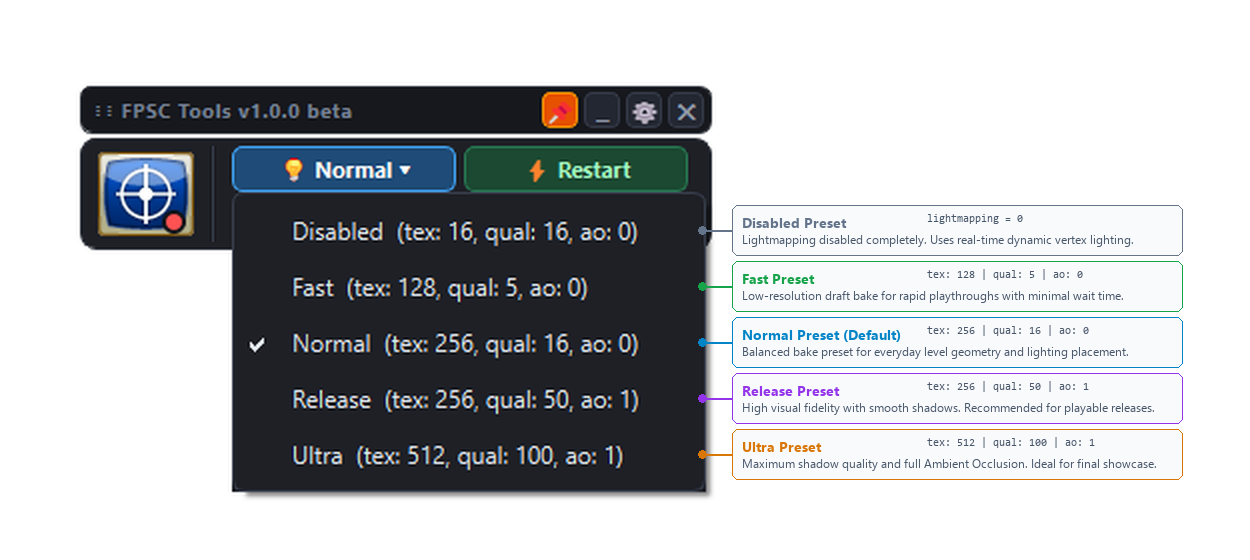
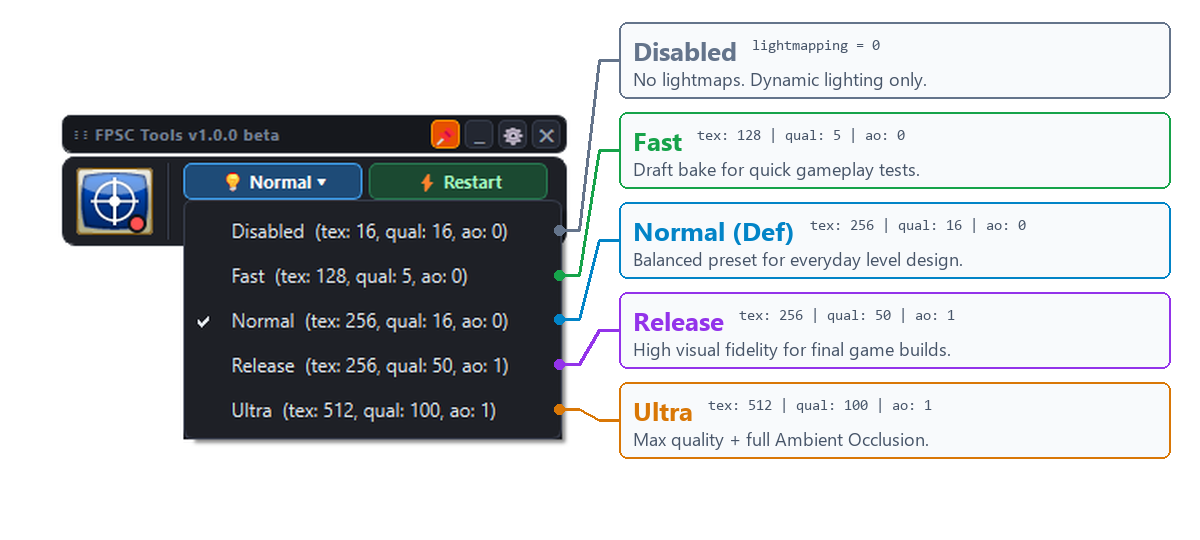
Fixed image font and box sizes

Changed region(s): [[0.0308, 0.0296, 0.9867, 0.8889]]

diff --git a/docs/infographics/src/generate_all.py b/docs/infographics/src/generate_all.py
@@ -11,229 +11,182 @@ ASSETS_DIR = os.path.join(BASE_DIR, 'assets')
 OUTPUT_DIR = os.path.abspath(os.path.join(BASE_DIR, '..'))
 
 # Colors (Pure White Theme)
-BG_WHITE = (255, 255, 255)
-CARD_BG = (248, 250, 252)        # slate-50
-TEXT_MAIN = (15, 23, 42)         # slate-900
-TEXT_MUTED = (71, 85, 105)       # slate-600
+BG = (255, 255, 255)
+CARD_BG = (248, 250, 252)
+TEXT_MAIN = (15, 23, 42)
+TEXT_MUTED = (71, 85, 105)
 
-COL_BLUE = (2, 132, 199)         # sky-600
-COL_GREEN = (22, 163, 74)        # green-600
-COL_ORANGE = (234, 88, 12)       # orange-600
-COL_PURPLE = (147, 51, 234)      # purple-600
-COL_RED = (225, 29, 72)          # rose-600
-COL_AMBER = (217, 119, 6)        # amber-600
-COL_CYAN = (8, 145, 178)         # cyan-600
-COL_GRAY = (100, 116, 139)       # slate-500
+COL_BLUE = (2, 132, 199)
+COL_GREEN = (22, 163, 74)
+COL_ORANGE = (234, 88, 12)
+COL_PURPLE = (147, 51, 234)
+COL_RED = (225, 29, 72)
+COL_AMBER = (217, 119, 6)
+COL_CYAN = (8, 145, 178)
+COL_GRAY = (100, 116, 139)
 
-font_title = ImageFont.truetype(r'C:\Windows\Fonts\segoeuib.ttf', 14)
-font_body = ImageFont.truetype(r'C:\Windows\Fonts\segoeui.ttf', 12)
-font_num = ImageFont.truetype(r'C:\Windows\Fonts\segoeuib.ttf', 11)
-font_params = ImageFont.truetype(r'C:\Windows\Fonts\consola.ttf', 11)
+FT = ImageFont.truetype(r'C:\Windows\Fonts\segoeuib.ttf', 22)
+FB = ImageFont.truetype(r'C:\Windows\Fonts\segoeui.ttf', 16)
+FN = ImageFont.truetype(r'C:\Windows\Fonts\segoeuib.ttf', 15)
 
-def draw_straight_pointer(draw, pt_tip, pt_card, color, width=2):
-    draw.ellipse((pt_tip[0]-4, pt_tip[1]-4, pt_tip[0]+4, pt_tip[1]+4), fill=color)
-    draw.line([pt_tip, pt_card], fill=color, width=width)
+FT_MODE = ImageFont.truetype(r'C:\Windows\Fonts\segoeuib.ttf', 26)
+FB_MODE = ImageFont.truetype(r'C:\Windows\Fonts\segoeui.ttf', 18)
+FP_MODE = ImageFont.truetype(r'C:\Windows\Fonts\consola.ttf', 15)
 
-def draw_card(draw, box, num_str, title, lines, color):
-    draw.rounded_rectangle(box, radius=6, fill=CARD_BG, outline=color, width=1)
-    bx, by = box[0] + 8, box[1] + 6
-    if num_str:
-        draw.rounded_rectangle((bx, by, bx + 16, by + 16), radius=3, fill=color)
-        draw.text((bx + 4, by + 1), num_str, font=font_num, fill=(255, 255, 255))
-        draw.text((bx + 22, by + 1), title, font=font_title, fill=TEXT_MAIN)
+def ptr(d, t, e, c, w=3):
+    d.ellipse([t[0]-5, t[1]-5, t[0]+5, t[1]+5], fill=c)
+    d.line([t, e], fill=c, width=w)
+
+def card(d, b, n, title, lines, c):
+    d.rounded_rectangle(b, 8, fill=CARD_BG, outline=c, width=2)
+    x, y = b[0] + 12, b[1] + 10
+    if n:
+        d.rounded_rectangle([x, y, x + 24, y + 24], 4, fill=c)
+        d.text((x + 7, y + 1), n, font=FN, fill=(255, 255, 255))
+        d.text((x + 32, y - 2), title, font=FT, fill=TEXT_MAIN)
     else:
-        draw.text((bx, by), title, font=font_title, fill=color)
-    ly = by + 20
-    for line in lines:
-        draw.text((bx, ly), line, font=font_body, fill=TEXT_MUTED)
-        ly += 15
+        d.text((x, y), title, font=FT, fill=c)
+    ly = y + 28
+    for l in lines:
+        d.text((x, ly), l, font=FB, fill=TEXT_MUTED)
+        ly += 22
 
-def draw_horizontal_callout(draw, pt_tip, box, border_col, title, params, desc):
-    draw.ellipse((pt_tip[0]-4, pt_tip[1]-4, pt_tip[0]+4, pt_tip[1]+4), fill=border_col)
-    draw.line([pt_tip, (box[0], pt_tip[1])], fill=border_col, width=2)
-    draw.rounded_rectangle(box, radius=6, fill=CARD_BG, outline=border_col, width=1)
-    bx, by = box[0] + 10, box[1] + 7
-    draw.text((bx, by), title, font=font_title, fill=border_col)
-    t_w = font_title.getlength(title)
+def hcallout_fanned(d, tip, cy, rx, rw, ch, col, title, params, desc):
+    menu_pt = tip
+    card_pt = (rx, cy)
+    d.line([menu_pt, (menu_pt[0]+20, menu_pt[1]), (rx-20, cy), card_pt], fill=col, width=3)
+    d.ellipse([menu_pt[0]-5, menu_pt[1]-5, menu_pt[0]+5, menu_pt[1]+5], fill=col)
+    
+    box = (rx, cy - ch//2, rx + rw, cy + ch//2)
+    d.rounded_rectangle(box, 8, fill=CARD_BG, outline=col, width=2)
+    bx, by = box[0] + 14, box[1] + 10
+    d.text((bx, by), title, font=FT_MODE, fill=col)
+    tw = FT_MODE.getlength(title)
     if params:
-        draw.text((bx + max(t_w + 14, 185), by + 1), params, font=font_params, fill=TEXT_MUTED)
-    draw.text((bx, by + 19), desc, font=font_body, fill=TEXT_MUTED)
-
+        d.text((bx + tw + 15, by + 6), params, font=FP_MODE, fill=TEXT_MUTED)
+    d.text((bx, by + 34), desc, font=FB_MODE, fill=TEXT_MUTED)
 
 def generate_toolbar_overview():
-    scale = 2.0
-    tb_raw = Image.open(os.path.join(ASSETS_DIR, 'toolbar_full.png'))
-    tb_w, tb_h = int(tb_raw.width * scale), int(tb_raw.height * scale)
-    tb = tb_raw.resize((tb_w, tb_h), Image.LANCZOS)
+    sc = 1.4
+    tb = Image.open(os.path.join(ASSETS_DIR, 'toolbar_full.png'))
+    tw, th = int(tb.width * sc), int(tb.height * sc)
+    tb = tb.resize((tw, th), Image.LANCZOS)
 
-    canvas_w, canvas_h = 1260, 560
-    img = Image.new('RGB', (canvas_w, canvas_h), BG_WHITE)
-    draw = ImageDraw.Draw(img)
+    W, H = 1000, 390
+    img = Image.new('RGB', (W, H), BG)
+    d = ImageDraw.Draw(img)
+    tx = (W - tw) // 2
+    ty = 135
+    img.paste(tb, (tx, ty))
 
-    tb_x = (canvas_w - tb_w) // 2   # 314
-    tb_y = 180
-    img.paste(tb, (tb_x, tb_y))
+    pf = (tx + int(263 * sc), ty + int(11 * sc))
+    pp = (tx + int(240 * sc), ty + int(11 * sc))
+    pl = (tx + int(48 * sc), ty + int(66 * sc))
+    pn = (tx + int(115 * sc), ty + int(38 * sc))
+    pc = (tx + int(115 * sc), ty + int(67 * sc))
+    pr = (tx + int(235 * sc), ty + int(38 * sc))
+    ps = (tx + int(235 * sc), ty + int(67 * sc))
 
-    pt_fold = (tb_x + int(263 * scale), tb_y + int(11 * scale))
-    pt_pin = (tb_x + int(240 * scale), tb_y + int(11 * scale))
-    pt_led = (tb_x + int(48 * scale), tb_y + int(66 * scale))
+    # Top Left
+    b1 = (20, 20, 380, 95)
+    card(d, b1, '1', 'Fold to Mini-Widget', ['Collapse and restore in one click.'], COL_CYAN)
+    mi = Image.open(os.path.join(ASSETS_DIR, 'mini_icon.png')).resize((40, 40), Image.LANCZOS)
+    img.paste(mi, (330, 28), mi.convert('RGBA'))
+    ptr(d, pf, (380, 57), COL_CYAN)
 
-    pt_normal = (tb_x + int(115 * scale), tb_y + int(38 * scale))
-    pt_clean = (tb_x + int(115 * scale), tb_y + int(67 * scale))
-    pt_restart = (tb_x + int(235 * scale), tb_y + int(38 * scale))
-    pt_stash = (tb_x + int(235 * scale), tb_y + int(67 * scale))
+    # Top Right
+    b2 = (650, 20, 980, 95)
+    card(d, b2, '2', 'Window Controls', ['Pin | Settings | Close'], COL_AMBER)
+    ptr(d, pp, (650, 57), COL_AMBER)
 
-    # 1. Fold to Mini-Widget
-    b1 = (40, 25, 520, 115)
-    draw.rounded_rectangle(b1, radius=6, fill=CARD_BG, outline=COL_CYAN, width=1)
-    draw.rounded_rectangle((b1[0] + 10, b1[1] + 8, b1[0] + 26, b1[1] + 24), radius=3, fill=COL_CYAN)
-    draw.text((b1[0] + 14, b1[1] + 9), '1', font=font_num, fill=(255, 255, 255))
-    draw.text((b1[0] + 32, b1[1] + 8), 'Fold to Mini-Widget (Collapse)', font=font_title, fill=TEXT_MAIN)
-    draw.text((b1[0] + 10, b1[1] + 30), 'Clicking Fold collapses toolbar into a floating mini-icon', font=font_body, fill=TEXT_MUTED)
-    draw.text((b1[0] + 10, b1[1] + 46), 'centered at cursor. Click icon to restore with zero drift.', font=font_body, fill=TEXT_MUTED)
-
-    mini_img = Image.open(os.path.join(ASSETS_DIR, 'mini_icon.png')).resize((55, 55), Image.LANCZOS)
-    img.paste(mini_img, (b1[0] + 445, b1[1] + 18), mini_img.convert('RGBA'))
-    draw_straight_pointer(draw, pt_fold, (520, 95), COL_CYAN)
-
-    # 2. Window Controls
-    b2 = (740, 25, 1220, 115)
-    draw_card(draw, b2, '2', 'Window Controls', 
-              ['Pin: Toggle Always on Top above all editor windows', 
-               'Gear: Open Settings dialog • X: Exit application'], COL_AMBER)
-    draw_straight_pointer(draw, pt_pin, (794, 115), COL_AMBER)
-
-    # 3. Status LED
-    b3 = (30, 230, 270, 315)
-    draw_card(draw, b3, '3', 'Status LED & Launch',
-              ['Red: Engine Stopped.', 'Green: Engine Active.', 'Click icon to launch / restart.'], COL_GREEN)
-    draw_straight_pointer(draw, pt_led, (270, pt_led[1]), COL_GREEN)
+    # Far Left
+    b3 = (20, 150, 220, 245)
+    card(d, b3, '3', 'Status LED', ['Red = Stopped', 'Green = Running'], COL_GREEN)
+    ptr(d, pl, (220, pl[1]), COL_GREEN)
 
     # Bottom row
-    bot_y1, bot_y2 = 440, 525
-    b4 = (30, bot_y1, 315, bot_y2)
-    draw_card(draw, b4, '4', 'Lightmapping Profiles',
-              ['Dropdown with 5 bake presets.', 'Updates setup.ini & reloads engine.'], COL_BLUE)
-    draw_straight_pointer(draw, pt_normal, (200, bot_y1), COL_BLUE)
+    by1, by2 = 295, 370
+    cw = 220; gap = 20
+    b4 = (20, by1, 20+cw, by2)
+    card(d, b4, '4', 'Lightmap', ['5 bake presets'], COL_BLUE)
+    ptr(d, pn, (20+cw//2, by1), COL_BLUE)
 
-    b5 = (335, bot_y1, 620, bot_y2)
-    draw_card(draw, b5, '5', 'Fast Cache Cleaner',
-              ['Purges .bin/.dbo models, level build', 'cache data, and engine temp files.'], COL_ORANGE)
-    draw_straight_pointer(draw, pt_clean, (475, bot_y1), COL_ORANGE)
+    b5 = (20+cw+gap, by1, 20+2*cw+gap, by2)
+    card(d, b5, '5', 'Cleaner', ['Purge build cache'], COL_ORANGE)
+    ptr(d, pc, (20+cw+gap+cw//2, by1), COL_ORANGE)
 
-    b6 = (640, bot_y1, 925, bot_y2)
-    draw_card(draw, b6, '6', 'Level Stash System',
-              ['Instant snapshot backup & rollback of', 'testlevel builds + active .fpm map.'], COL_PURPLE)
-    draw_straight_pointer(draw, pt_stash, (784, bot_y1), COL_PURPLE)
+    b6 = (20+2*(cw+gap), by1, 20+3*cw+2*gap, by2)
+    card(d, b6, '6', 'Level Stash', ['Snapshot + .fpm'], COL_PURPLE)
+    ptr(d, ps, (20+2*(cw+gap)+cw//2, by1), COL_PURPLE)
 
-    b7 = (945, bot_y1, 1230, bot_y2)
-    draw_card(draw, b7, '7', 'Instant Restart',
-              ['Force-kills hanging FPSC processes', 'and cleanly relaunches the editor.'], COL_RED)
-    draw_straight_pointer(draw, pt_restart, (1085, bot_y1), COL_RED)
+    b7 = (20+3*(cw+gap), by1, 20+4*cw+3*gap, by2)
+    card(d, b7, '7', 'Restart', ['Kill and relaunch'], COL_RED)
+    ptr(d, pr, (20+3*(cw+gap)+cw//2, by1), COL_RED)
 
     out_path = os.path.join(OUTPUT_DIR, 'toolbar_overview.png')
     img.save(out_path, quality=95)
     print('[+] Generated:', out_path)
 
+def make_mode_img(filename, menu_img_name, items):
+    sc_m = 1.6
+    m = Image.open(os.path.join(ASSETS_DIR, menu_img_name))
+    mw, mh = int(m.width * sc_m), int(m.height * sc_m)
+    m = m.resize((mw, mh), Image.LANCZOS)
+    
+    W, H = 1200, max(500, len(items)*100 + 40)
+    img_m = Image.new('RGB', (W, H), BG)
+    dm = ImageDraw.Draw(img_m)
+    
+    mx = 30; my = (H - mh) // 2
+    img_m.paste(m, (mx, my))
+    tip_x = mx + int(m.width * 0.9 * sc_m) 
+    if 'clean' in menu_img_name: tip_x = mx + int(352 * sc_m)
+    if 'profiles' in menu_img_name: tip_x = mx + int(331 * sc_m)
+    if 'stash' in menu_img_name: tip_x = mx + int(410 * sc_m)
+    
+    rx = tip_x + 60
+    rw = W - rx - 30
+    ch = 76
+    
+    start_y = (H - (len(items)*90 - 10)) // 2 + 10
+    
+    for i, (orig_y, col, t, par, desc) in enumerate(items):
+        menu_y = my + int(orig_y * sc_m)
+        card_cy = start_y + i * 90
+        hcallout_fanned(dm, (tip_x, menu_y), card_cy, rx, rw, ch, col, t, par, desc)
+        
+    out_path = os.path.join(OUTPUT_DIR, filename)
+    img_m.save(out_path, quality=95)
+    print('[+] Generated:', out_path)
+
 
 def generate_mode_lightmapping():
-    scale = 2.0
-    card_h = 50
-    m_raw2 = Image.open(os.path.join(ASSETS_DIR, 'menu_profiles.png'))
-    m_w2, m_h2 = int(m_raw2.width * scale), int(m_raw2.height * scale)
-    m2 = m_raw2.resize((m_w2, m_h2), Image.LANCZOS)
-
-    cw2, ch2 = 1250, 560
-    img2 = Image.new('RGB', (cw2, ch2), BG_WHITE)
-    draw2 = ImageDraw.Draw(img2)
-    mx2, my2 = 40, (ch2 - m_h2) // 2
-    img2.paste(m2, (mx2, my2))
-
-    tip_x2 = mx2 + int(331 * scale)
-    rx2 = tip_x2 + 30
-    rw2 = 450
-
     items2 = [
-        (my2 + int(92.0 * scale), COL_GRAY, 'Disabled Preset', 'lightmapping = 0', 'Lightmapping disabled completely. Uses real-time dynamic vertex lighting.'),
-        (my2 + int(120.0 * scale), COL_GREEN, 'Fast Preset', 'tex: 128 | qual: 5 | ao: 0', 'Low-resolution draft bake for rapid playthroughs with minimal wait time.'),
-        (my2 + int(148.0 * scale), COL_BLUE, 'Normal Preset (Default)', 'tex: 256 | qual: 16 | ao: 0', 'Balanced bake preset for everyday level geometry and lighting placement.'),
-        (my2 + int(176.0 * scale), COL_PURPLE, 'Release Preset', 'tex: 256 | qual: 50 | ao: 1', 'High visual fidelity with smooth shadows. Recommended for playable releases.'),
-        (my2 + int(204.0 * scale), COL_AMBER, 'Ultra Preset', 'tex: 512 | qual: 100 | ao: 1', 'Maximum shadow quality and full Ambient Occlusion. Ideal for final showcase.')
+        (92,  COL_GRAY,  'Disabled', 'lightmapping = 0', 'No lightmaps. Dynamic lighting only.'),
+        (120, COL_GREEN, 'Fast', 'tex: 128 | qual: 5 | ao: 0', 'Draft bake for quick gameplay tests.'),
+        (148, COL_BLUE,  'Normal (Def)', 'tex: 256 | qual: 16 | ao: 0', 'Balanced preset for everyday level design.'),
+        (176, COL_PURPLE, 'Release', 'tex: 256 | qual: 50 | ao: 1', 'High visual fidelity for final game builds.'),
+        (204, COL_AMBER, 'Ultra', 'tex: 512 | qual: 100 | ao: 1', 'Max quality + full Ambient Occlusion.'),
     ]
-
-    for tip_y, col, title, params, desc in items2:
-        box = (rx2, tip_y - card_h//2, rx2 + rw2, tip_y + card_h//2)
-        draw_horizontal_callout(draw2, (tip_x2, tip_y), box, col, title, params, desc)
-
-    out_path = os.path.join(OUTPUT_DIR, 'mode_lightmapping.png')
-    img2.save(out_path, quality=95)
-    print('[+] Generated:', out_path)
-
+    make_mode_img('mode_lightmapping.png', 'menu_profiles.png', items2)
 
 def generate_mode_cleaner():
-    scale = 2.0
-    card_h = 52
-    m_raw3 = Image.open(os.path.join(ASSETS_DIR, 'menu_clean.png'))
-    m_w3, m_h3 = int(m_raw3.width * scale), int(m_raw3.height * scale)
-    m3 = m_raw3.resize((m_w3, m_h3), Image.LANCZOS)
-
-    cw3, ch3 = 1500, 560
-    img3 = Image.new('RGB', (cw3, ch3), BG_WHITE)
-    draw3 = ImageDraw.Draw(img3)
-    mx3, my3 = 40, (ch3 - m_h3) // 2
-    img3.paste(m3, (mx3, my3))
-
-    tip_x3 = mx3 + int(352 * scale)
-    rx3 = tip_x3 + 35
-    rw3 = 630
-
     items3 = [
-        (my3 + int(113.5 * scale), COL_ORANGE, '.bin and .dbo Cleaner', 'Target: Files/**/*.bin, Files/**/*.dbo', 'Deletes compiled model meshes (.dbo) & segment binaries (.bin) across Files/. Forces fresh rebuild.'),
-        (my3 + int(141.5 * scale), COL_AMBER, 'Level Build Data', 'Target: levelbank/testlevel/ (*.dbo, .ele, .lgt, .dat)', 'Purges intermediate level builder files & lightmap texture caches from testlevel directory.'),
-        (my3 + int(168.0 * scale), COL_RED, 'All (Deep Clean)', 'Target: Combined .bin/.dbo + Build Data + Lightmaps', 'Comprehensive one-click purge. Resolves phantom crashes, visual anomalies, and editor desyncs.'),
-        (my3 + int(205.0 * scale), COL_BLUE, 'Engine Temp Cache', 'Target: %TEMP%/dbpdata*', 'Safely deletes gigabytes of leftover DarkBASIC Professional temporary runtime directories.')
+        (113.5, COL_ORANGE, '.bin / .dbo', 'Files/**/*.bin, .dbo', 'Deletes compiled meshes & segment binaries.'),
+        (141.5, COL_AMBER,  'Level Build', 'levelbank/testlevel/', 'Purges intermediate build & lightmap files.'),
+        (168,   COL_RED,    'All (Deep)', 'Full Cache Purge', 'Complete cleanup of models, build data, lightmaps.'),
+        (205,   COL_BLUE,   'Temp Cache', '%TEMP%/dbpdata*', 'Frees DarkBASIC temporary runtime folders.'),
     ]
-
-    for tip_y, col, title, params, desc in items3:
-        box = (rx3, tip_y - card_h//2, rx3 + rw3, tip_y + card_h//2)
-        draw_horizontal_callout(draw3, (tip_x3, tip_y), box, col, title, params, desc)
-
-    out_path = os.path.join(OUTPUT_DIR, 'mode_cleaner.png')
-    img3.save(out_path, quality=95)
-    print('[+] Generated:', out_path)
-
+    make_mode_img('mode_cleaner.png', 'menu_clean.png', items3)
 
 def generate_mode_stash():
-    scale = 2.0
-    card_h = 52
-    m_raw4 = Image.open(os.path.join(ASSETS_DIR, 'menu_stash.png'))
-    m_w4, m_h4 = int(m_raw4.width * scale), int(m_raw4.height * scale)
-    m4 = m_raw4.resize((m_w4, m_h4), Image.LANCZOS)
-
-    cw4, ch4 = 1600, 600
-    img4 = Image.new('RGB', (cw4, ch4), BG_WHITE)
-    draw4 = ImageDraw.Draw(img4)
-    mx4, my4 = 40, (ch4 - m_h4) // 2
-    img4.paste(m4, (mx4, my4))
-
-    tip_x4 = mx4 + int(410 * scale)
-    rx4 = tip_x4 + 35
-    rw4 = 650
-
     items4 = [
-        (my4 + int(120.0 * scale), COL_PURPLE, 'Quick Save (Quick Stash)', 'One-click level snapshot', 'Archives testlevel/ into stashes/YYYY-MM-DD_HH-MM-SS/ AND automatically captures open .fpm map!'),
-        (my4 + int(148.0 * scale), COL_BLUE, 'Restore Latest Snapshot', 'Rollback to previous build', 'Reverts testlevel/ to the latest snapshot and restores associated source .fpm map file in 1 click.'),
-        (my4 + int(185.0 * scale), COL_AMBER, 'Stash Manager...', 'Interactive GUI dialog', 'Opens management dialog with timestamps, disk size, entity counts, custom renaming, and restore targets.'),
-        (my4 + int(213.0 * scale), COL_GRAY, 'Open Stashes Folder', 'Folder in Windows Explorer', 'Opens stashes/ directory in Windows Explorer for external backup, archiving, and project sharing.')
+        (120, COL_PURPLE, 'Quick Save', '1-Click Snapshot', 'Backs up testlevel/ + auto-copies active .fpm map.'),
+        (148, COL_BLUE,   'Restore', 'Instant Rollback', 'Reverts to latest snapshot + restores .fpm map.'),
+        (185, COL_AMBER,  'Manager...', 'GUI Dialog', 'Browse snapshots with dates, sizes, rename & restore.'),
+        (213, COL_GRAY,   'Stashes Dir', 'Explorer Folder', 'Opens physical stashes/ folder in Windows Explorer.'),
     ]
-
-    for tip_y, col, title, params, desc in items4:
-        box = (rx4, tip_y - card_h//2, rx4 + rw4, tip_y + card_h//2)
-        draw_horizontal_callout(draw4, (tip_x4, tip_y), box, col, title, params, desc)
-
-    out_path = os.path.join(OUTPUT_DIR, 'mode_stash.png')
-    img4.save(out_path, quality=95)
-    print('[+] Generated:', out_path)
+    make_mode_img('mode_stash.png', 'menu_stash.png', items4)
 
 
 if __name__ == '__main__':
